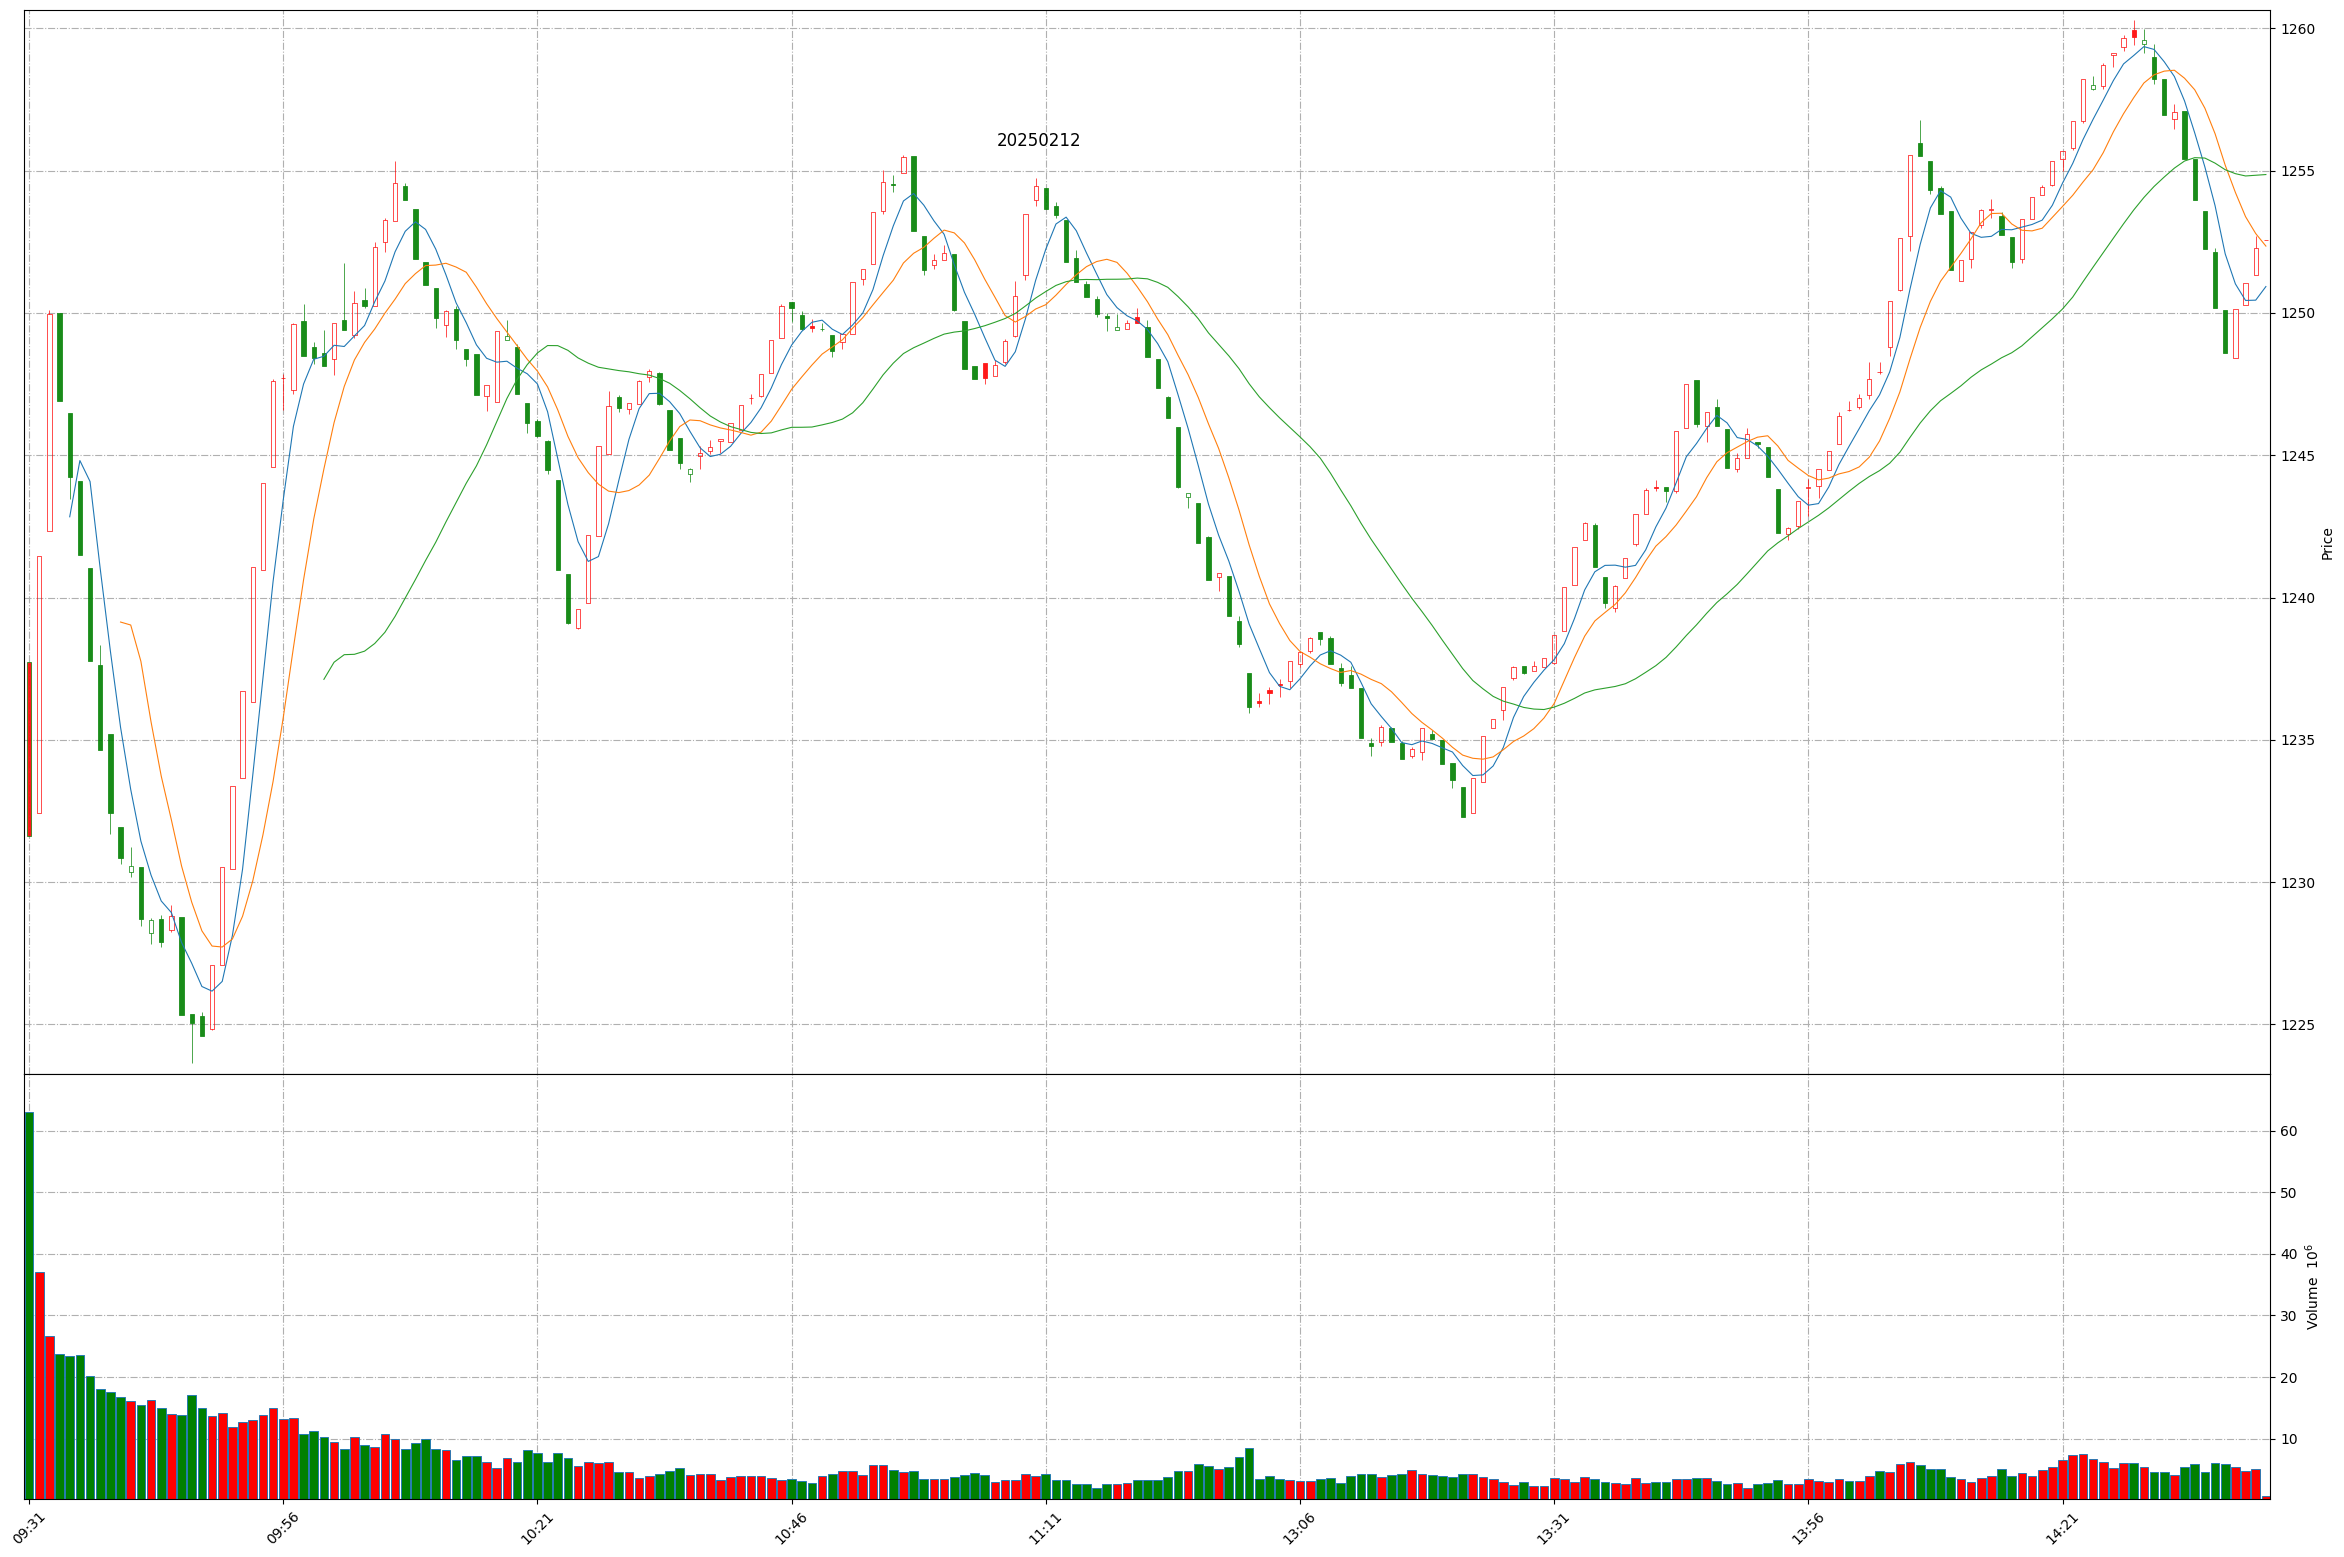
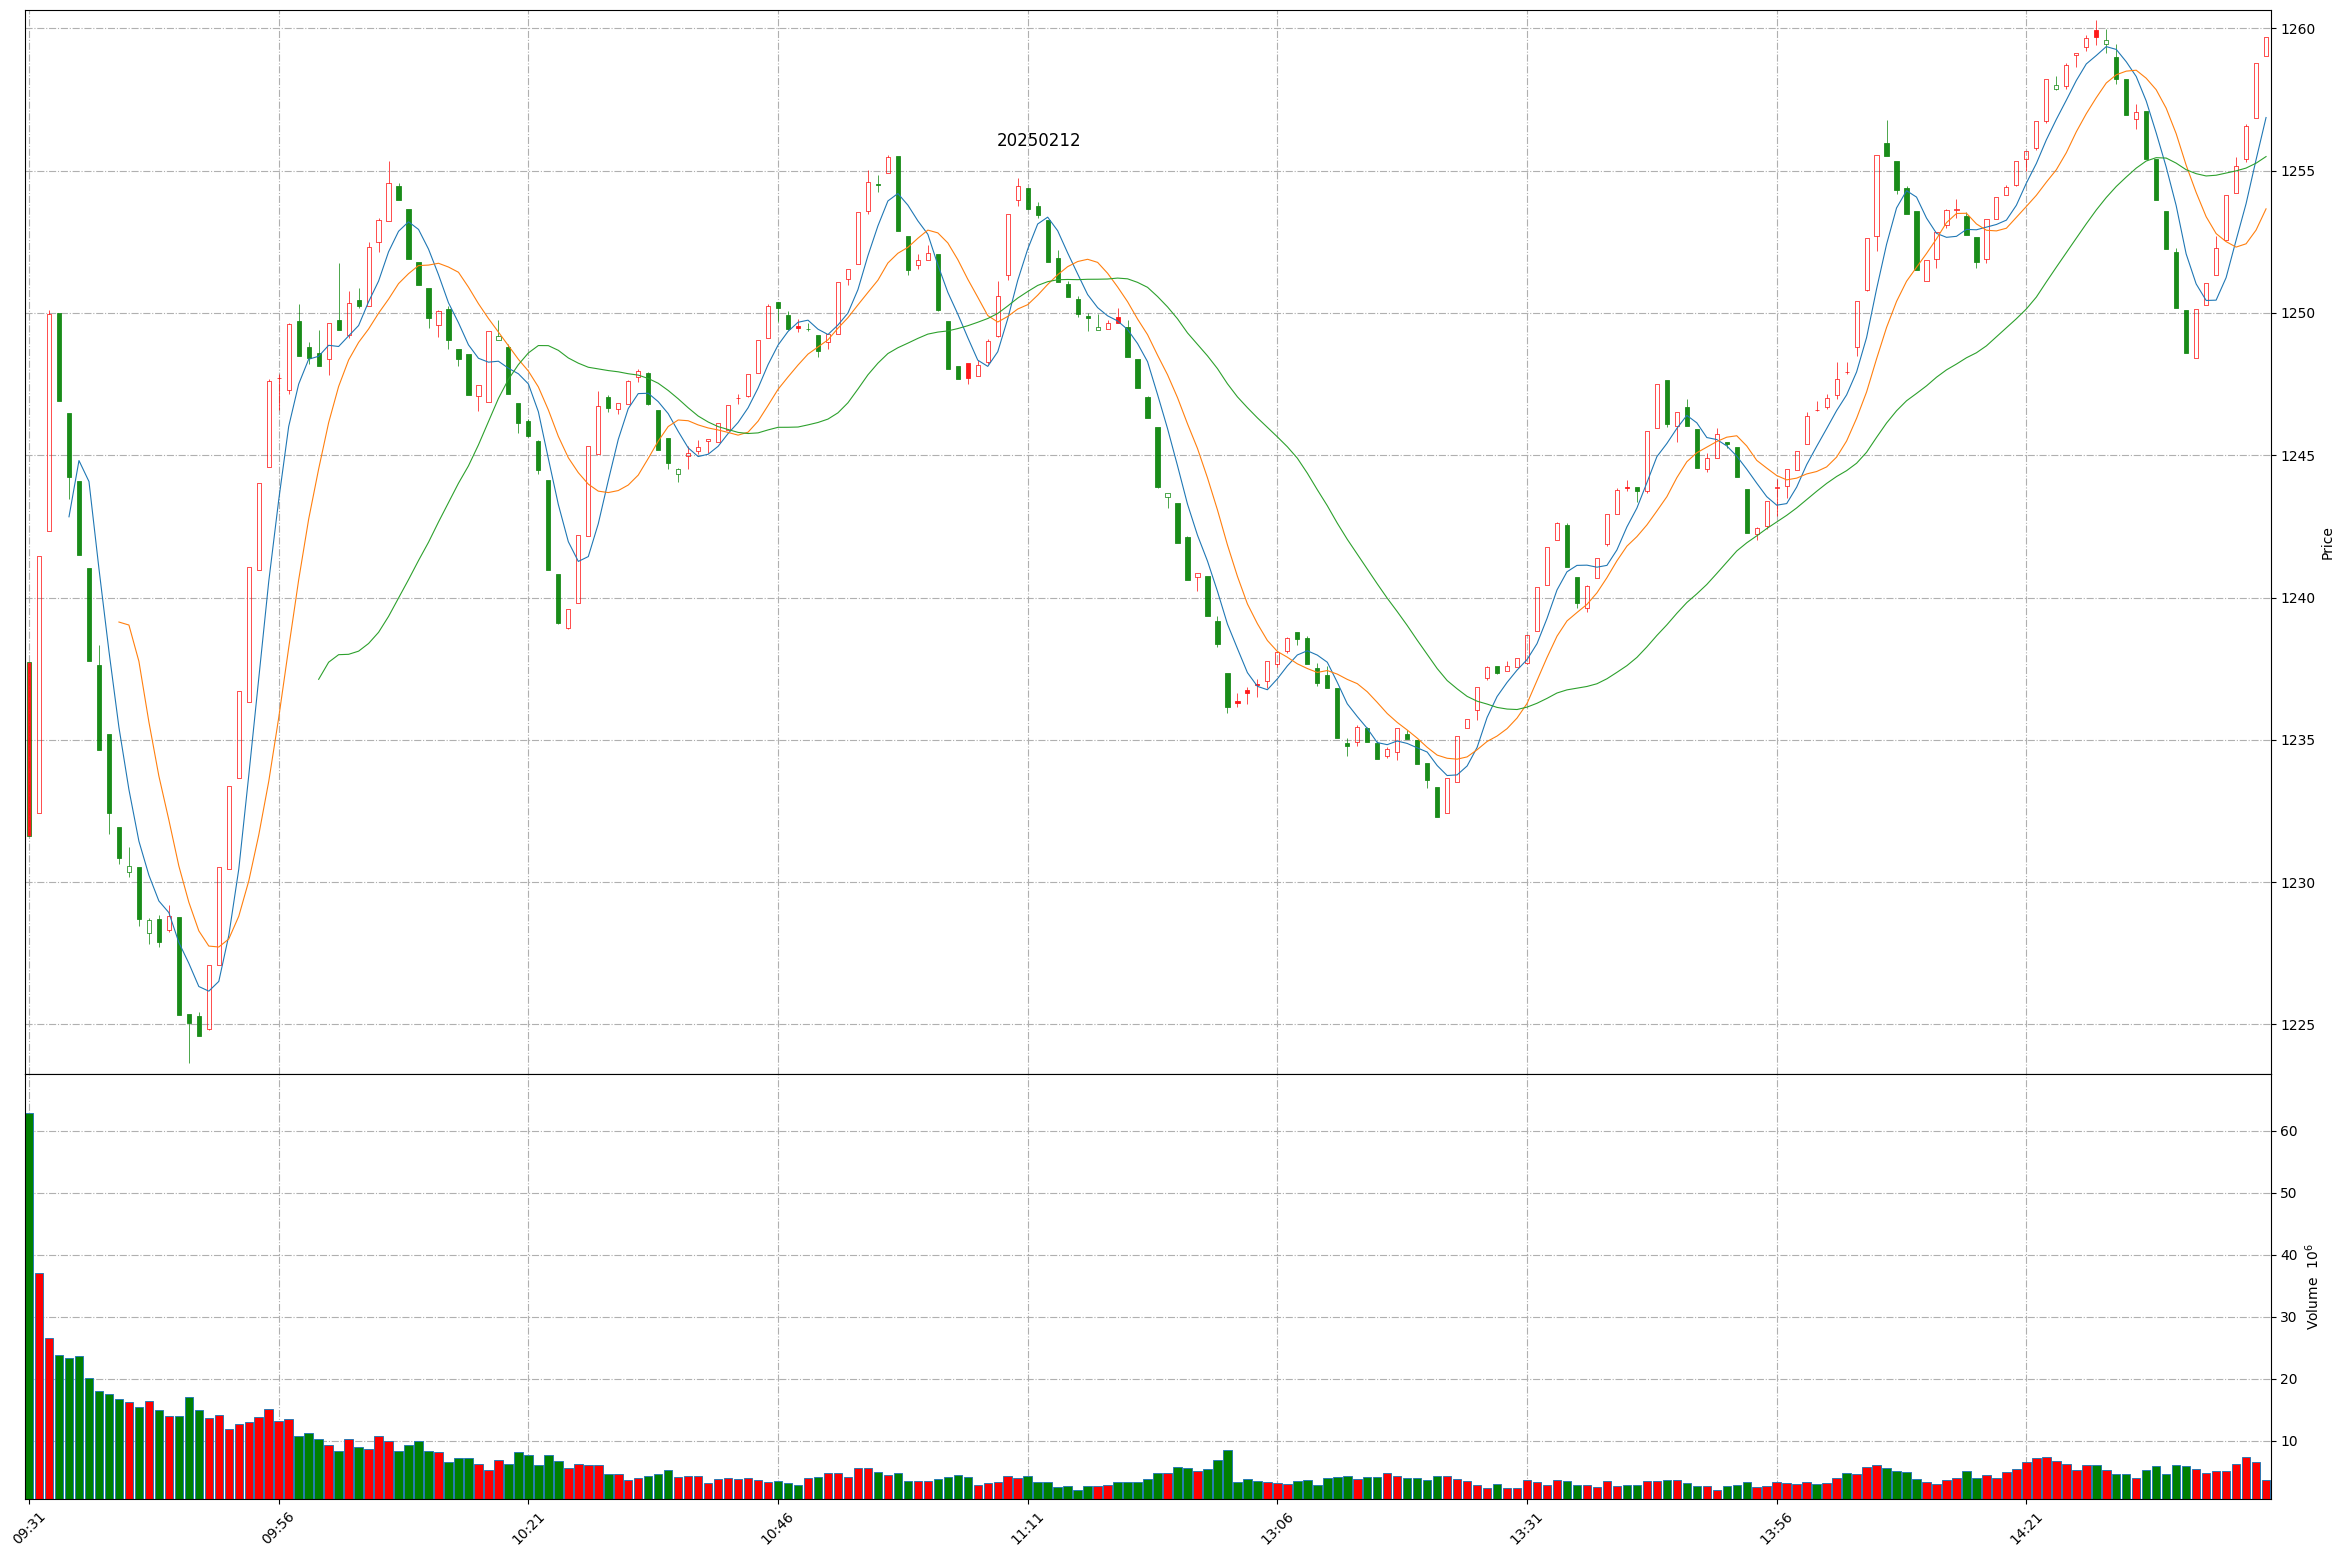
Github action update at 2025-02-12 14:44:27.

diff --git a/README.md b/README.md
@@ -1,11 +1,11 @@
 
 # Daily-A-share-market-quotes 每日 A 股指数（5min 更新）- 20250212
 
-### 上证指数 20250212 14:40
+### 上证指数 20250212 14:44
 ![](./fig/2025/2/20250212-sh000001.png)
 
-### 深证成指 20250212 14:40
+### 深证成指 20250212 14:44
 ![](./fig/2025/2/20250212-sz399001.png)
 
-### 北证50 20250212 14:40
+### 北证50 20250212 14:44
 ![](./fig/2025/2/20250212-bj899050.png)
